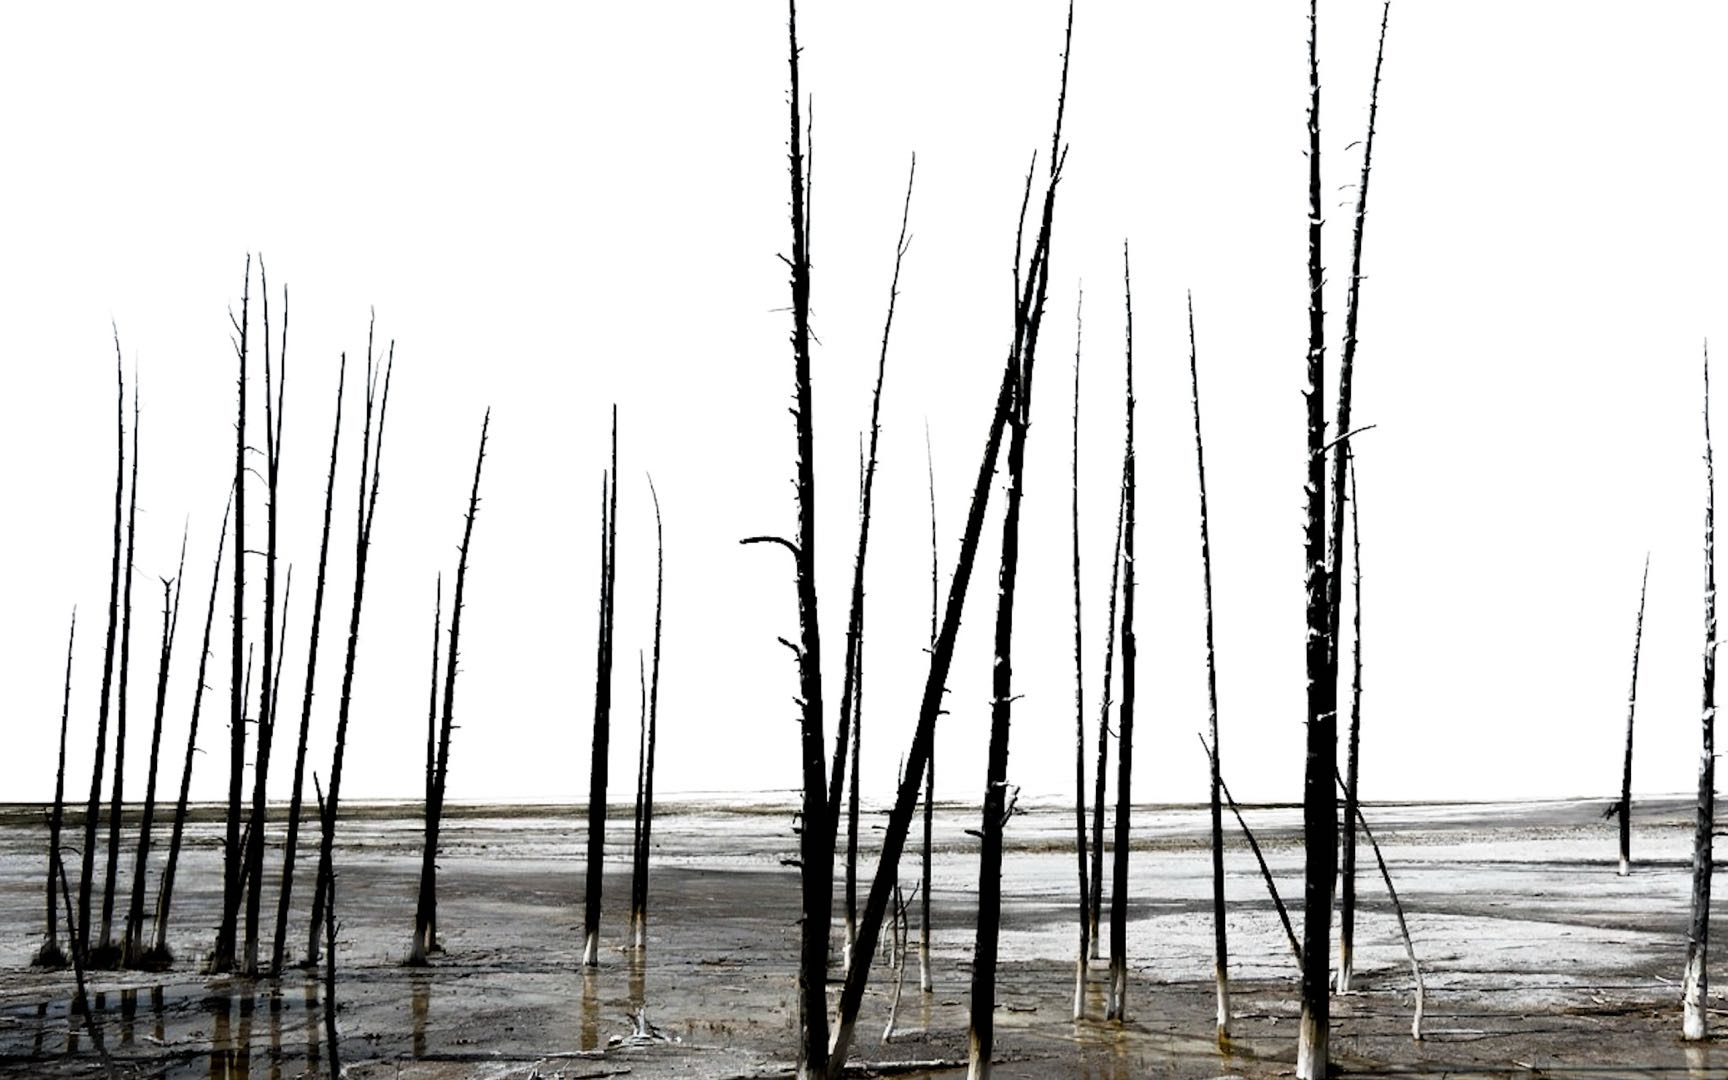
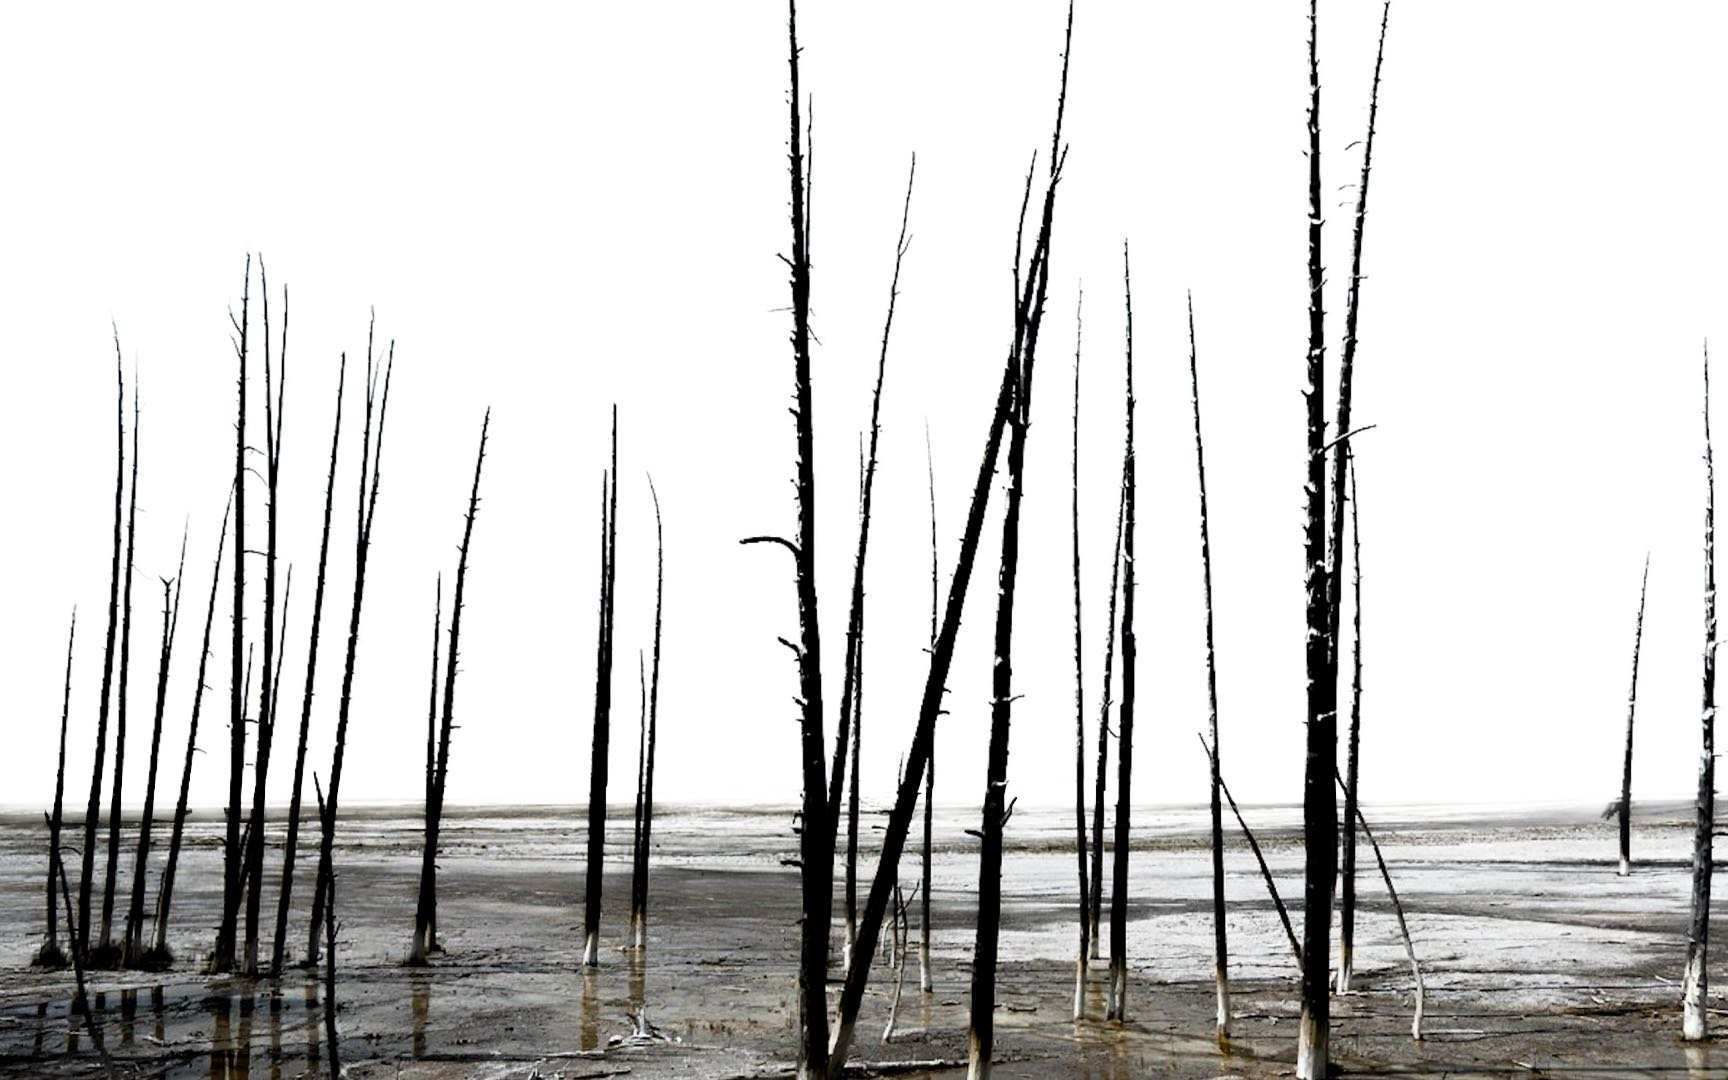
update

Changed region(s): [[0.5312, 0.7333, 1.0, 0.7639], [0.0, 0.7333, 0.4688, 0.7639]]

diff --git a/_site/projects.html b/_site/projects.html
@@ -60,6 +60,8 @@
 		<a class="button" href="/_pages/beijing.html">Beijing</a>
 		
 		<a class="button" href="/_pages/on_the_way.html">On the way</a>
+
+    <a class="button" href="/_pages/bw.html">B&W 黑白</a>
 		
 	</div>
 </div>

diff --git a/_pages/bw.md b/_pages/bw.md
@@ -1,0 +1,7 @@
+---
+title: B&W 黑白
+layout: default
+description: Black and White
+type: project
+order: 4
+---
